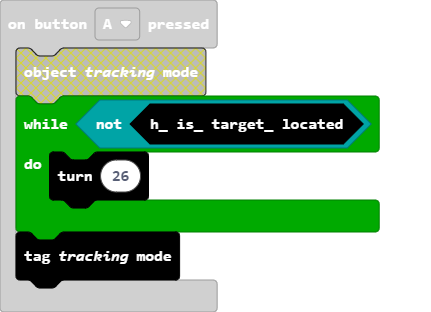
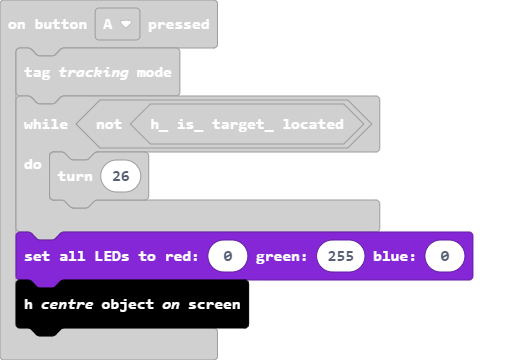
Update main.blocks, main.ts, custom.ts

diff --git a/main.ts b/main.ts
@@ -3,4 +3,6 @@ input.onButtonPressed(Button.A, function () {
     while (!(MTS_RVR.H_Is_Target_Located())) {
         MTS_RVR.Turn(26)
     }
+    sphero.setAllLeds(0, 255, 0)
+    MTS_RVR.H_Centre_Object_On_Screen()
 })

diff --git a/custom.ts b/custom.ts
@@ -147,7 +147,7 @@ namespace MTS_RVR {
                 degree -= 25
                 sphero.drive(0, degree);
             }
-            basic.pause(300);
+            basic.pause(1000);
         }
     }
 
